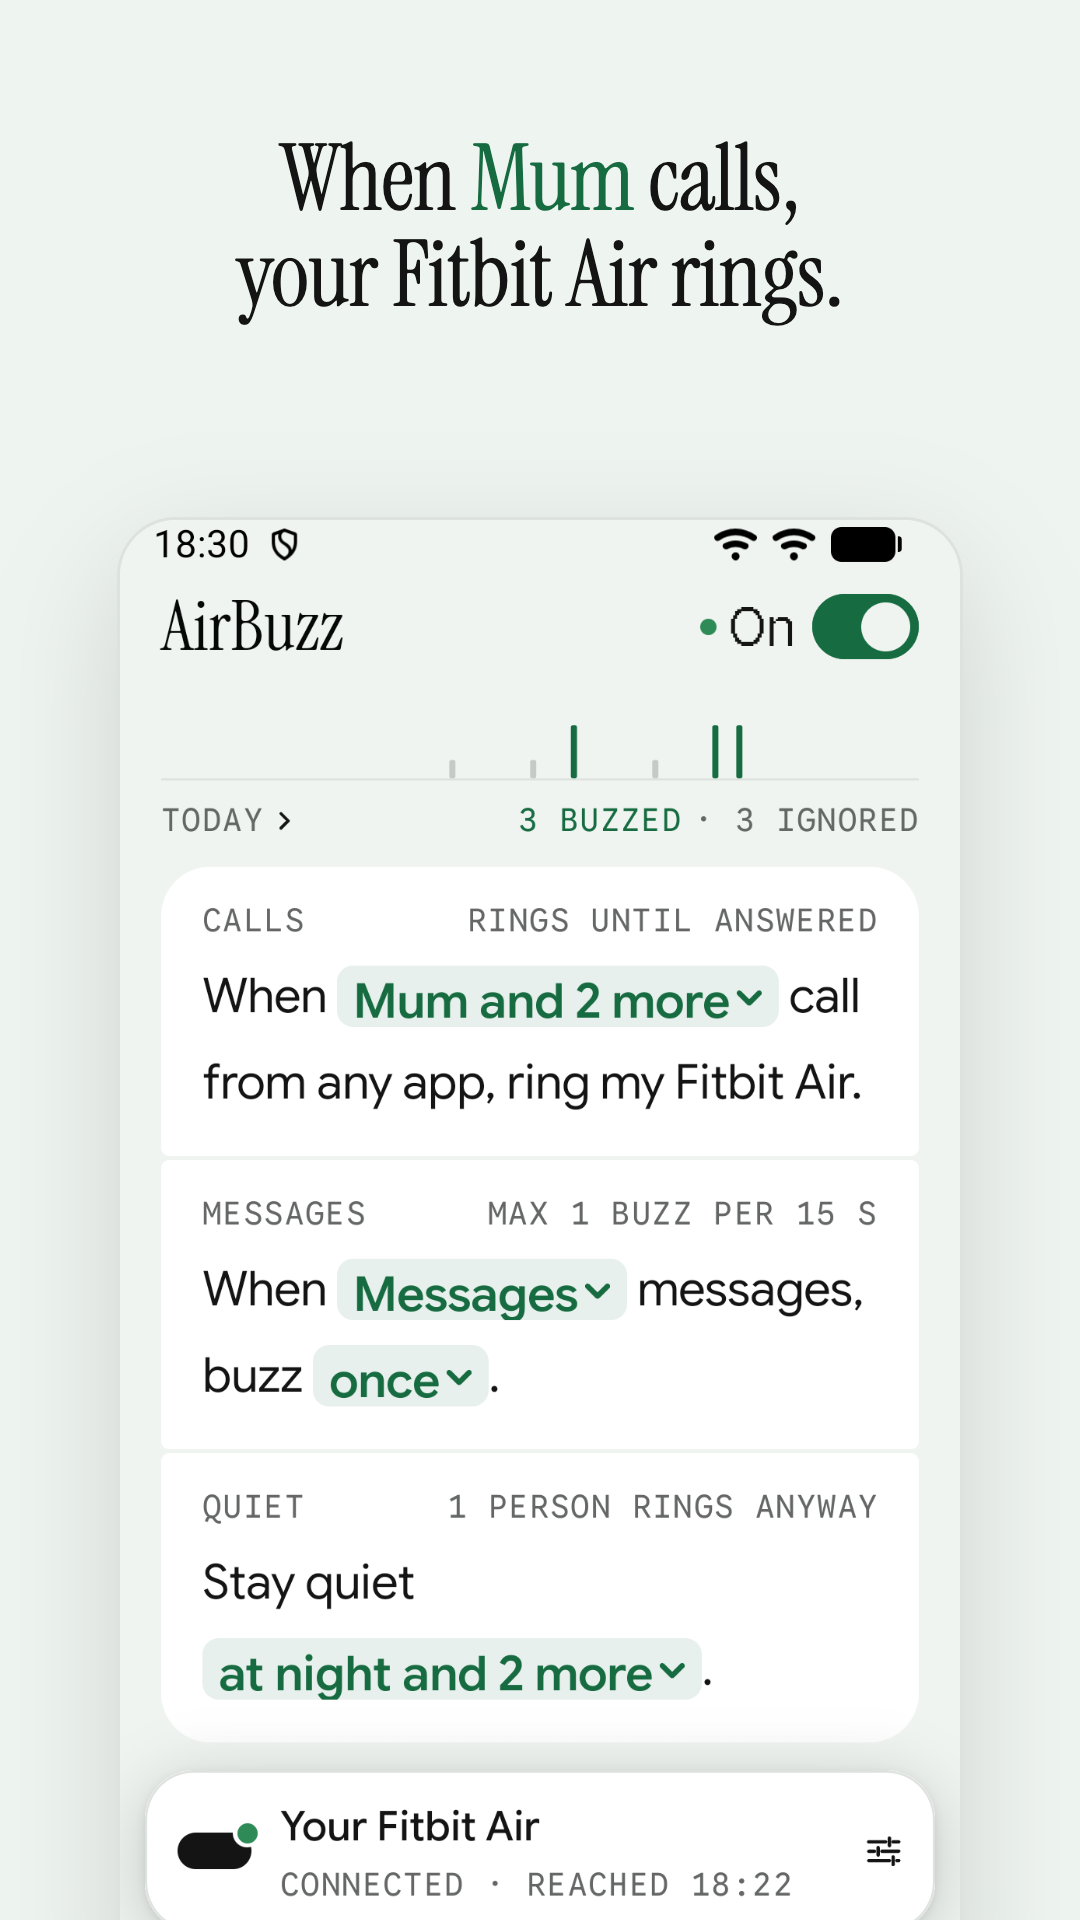
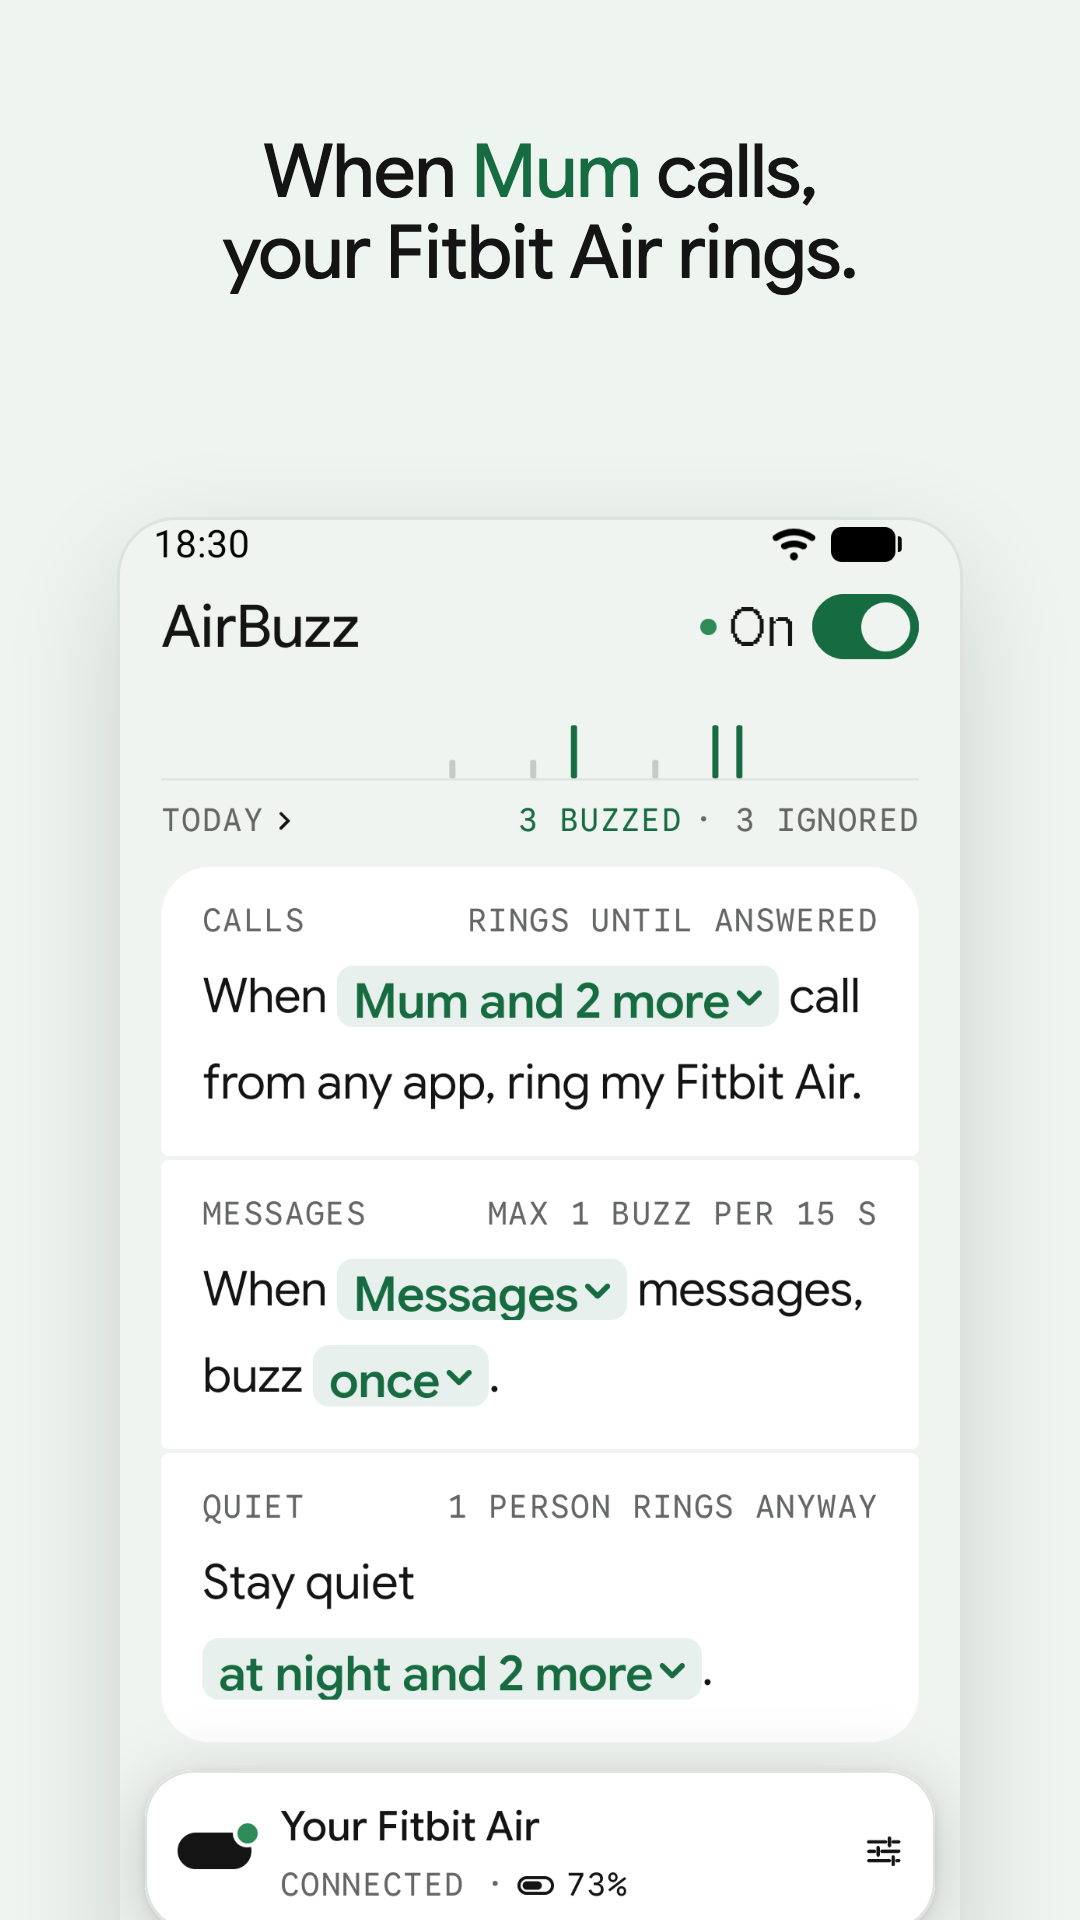
Play screenshots retaken from 0.9.9, captions in Google Sans Flex
The five screens in light and dark, with the battery on Home and People who
ring. store/screenshots.sh seeds a 73% battery reading, taps People who ring,
and stops the app again after pushing its data, because the notification
listener restarts it before the files land.

Amp-Thread-ID: https://ampcode.com/threads/T-01a1c9c6-8ff3-7593-aae7-5c6c1816e069

diff --git a/store/play/LISTING.md b/store/play/LISTING.md
@@ -36,12 +36,12 @@ AirBuzz is not made by, endorsed by or affiliated with Google or Fitbit. It uses
 
 ## Phone screenshots
 
-1080 × 1920. The app screens come from `store/screenshots.sh` on an emulator with made-up data; the captions were added on top in the site's serif.
+1080 × 1920, retaken from 0.9.9 on 27 Nov 2026. The app screens come from `store/screenshots.sh` on an emulator with made-up data and a 73% battery reading; the captions are added on top in Google Sans Flex 450 at 74 px, two lines each, with one word in the accent.
 
 | File | Caption |
 | --- | --- |
 | 1-home | When Mum calls, your Fitbit Air rings. |
-| 2-who-can-ring | Pick who can ring. Other calls ring only your phone. (retaken from 0.6.39) |
+| 2-people-who-ring | Pick who rings. Others only ring your phone. |
 | 3-apps | Pick the apps that buzz. The deals and likes don't. |
 | 4-stay-quiet | Quiet at night. Mum still gets through. |
 | 5-activity | See what buzzed, and why the rest didn't. |
